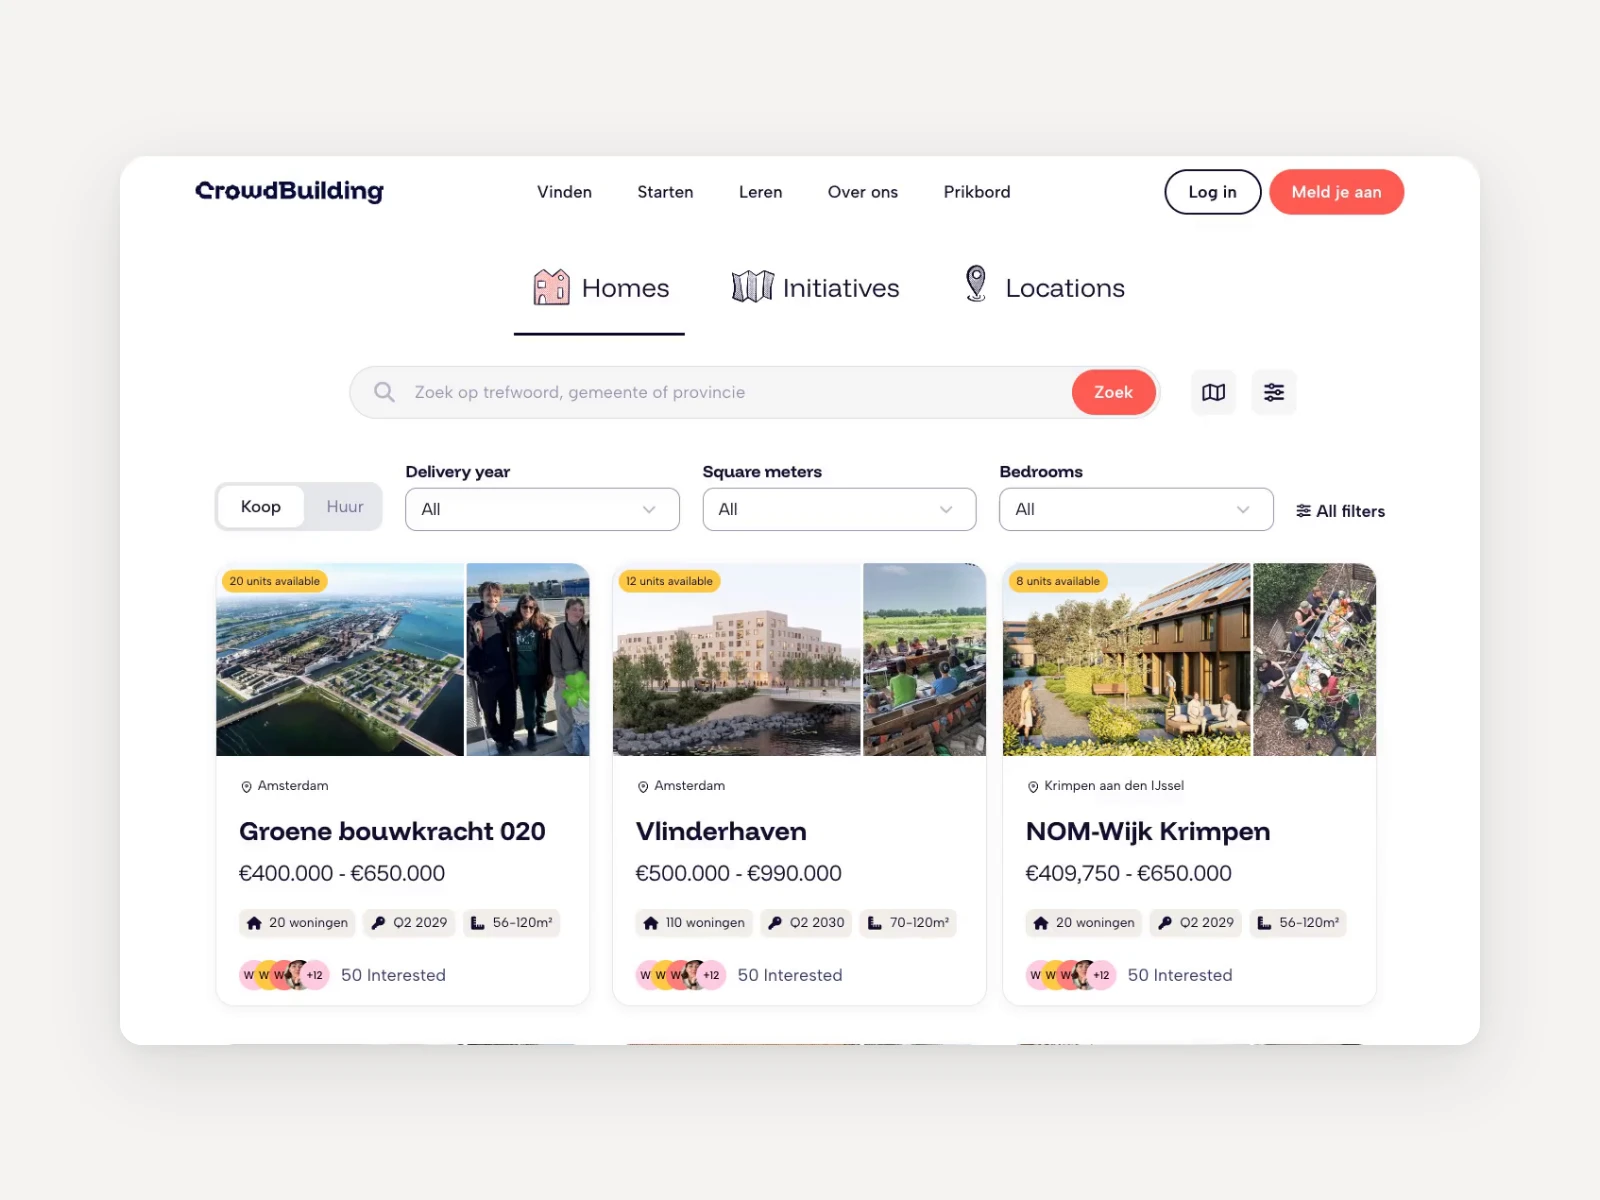
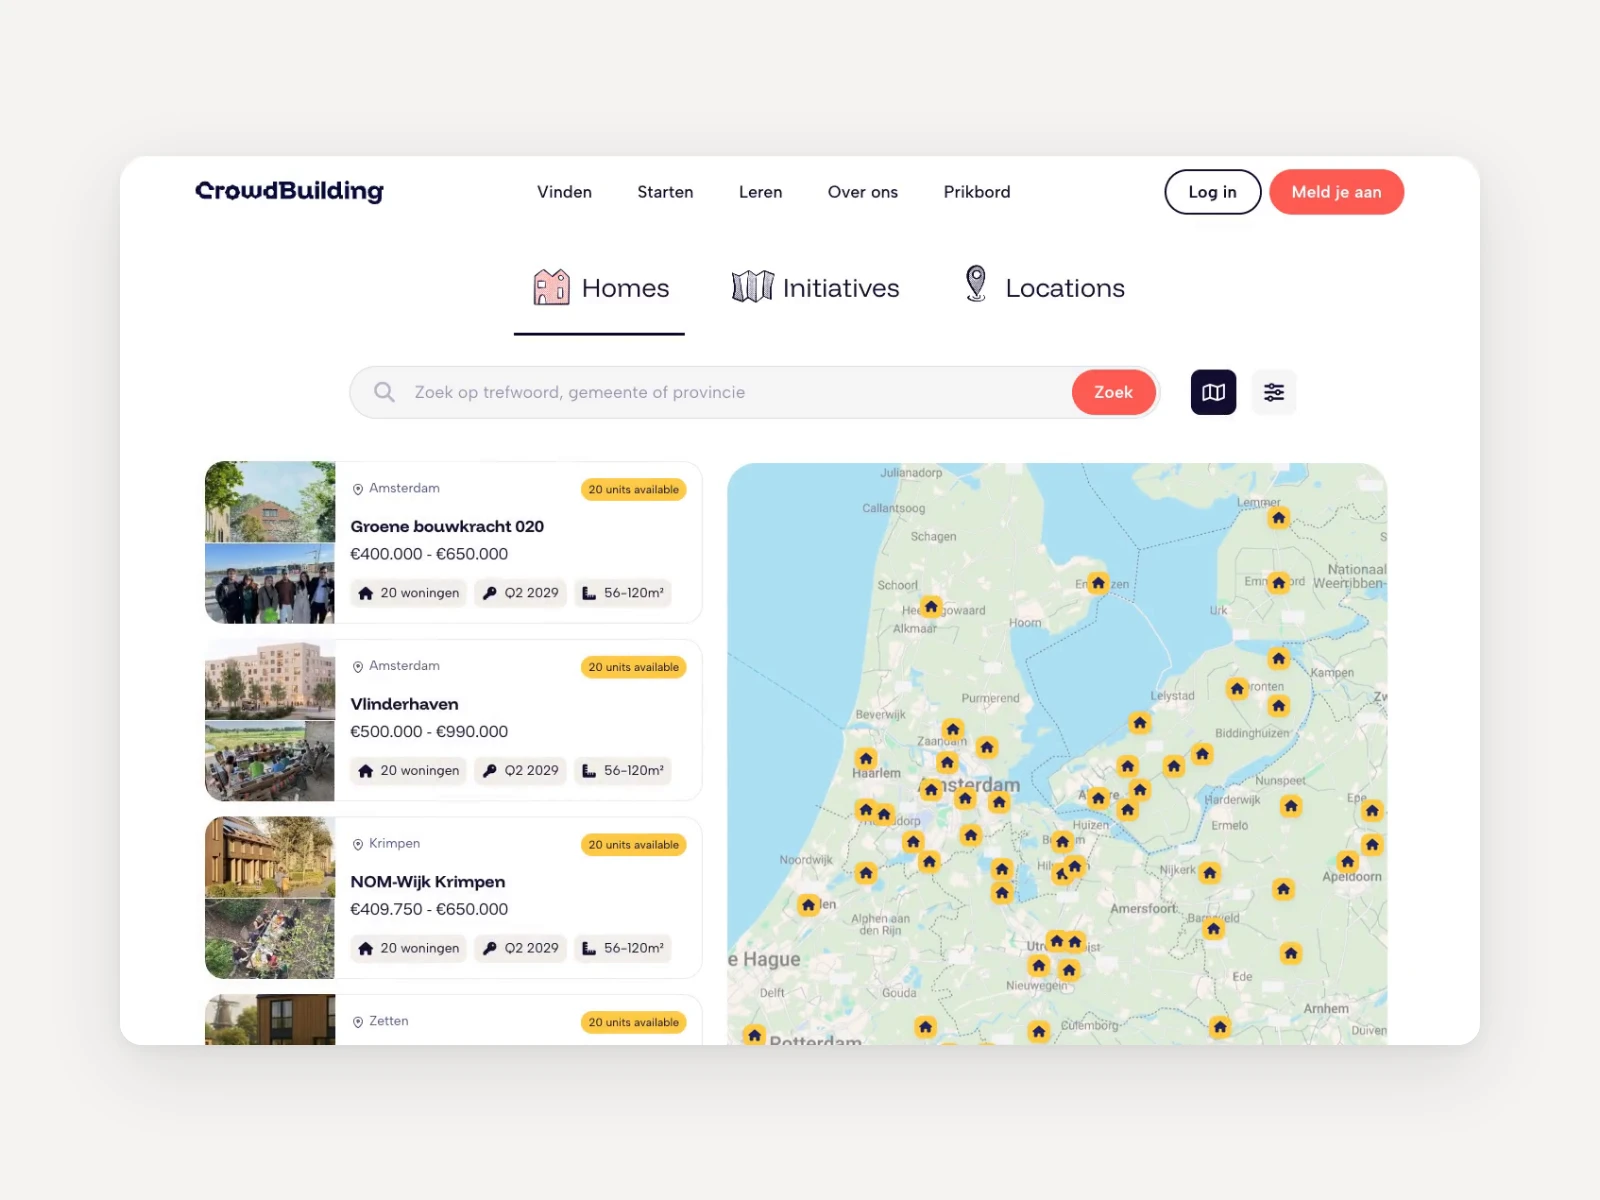
Show the map view on the home listings cover
Sets it apart from the noticeboard cover, which also shows a grid of
photo cards.

Claude-Session: https://claude.ai/code/session_01PnFuSzZFwokCBsftjY3Zgh

Changed region(s): [[0.125, 0.3083, 0.875, 0.8942]]

diff --git a/index.html b/index.html
@@ -61,7 +61,7 @@
         </li>
         <li>
           <a class="project grid row" href="work/crowdbuilding-unit-listings.html">
-            <span class="frame"><img src="assets/img/cover-home-listings.webp" width="1600" height="1200" decoding="async" alt="CrowdBuilding home listings: cards with photos, price range, number of homes, delivery date and how many people are interested."></span>
+            <span class="frame"><img src="assets/img/cover-home-listings.webp" width="1600" height="1200" decoding="async" alt="CrowdBuilding home listings on a map: cards with photos, price range, number of homes and delivery date next to a map of the Netherlands with a pin for each project."></span>
             <span class="text">
               <span class="date label">CrowdBuilding · 2026</span>
               <span class="h-md">Making the offering concrete</span>
